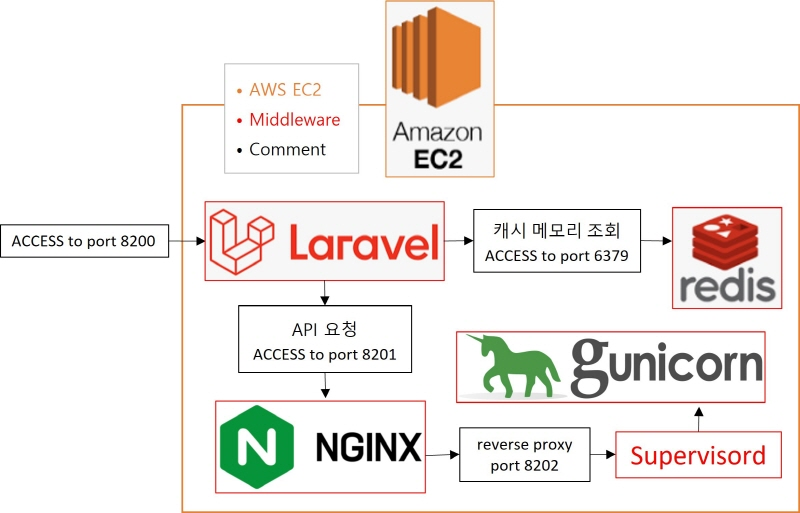
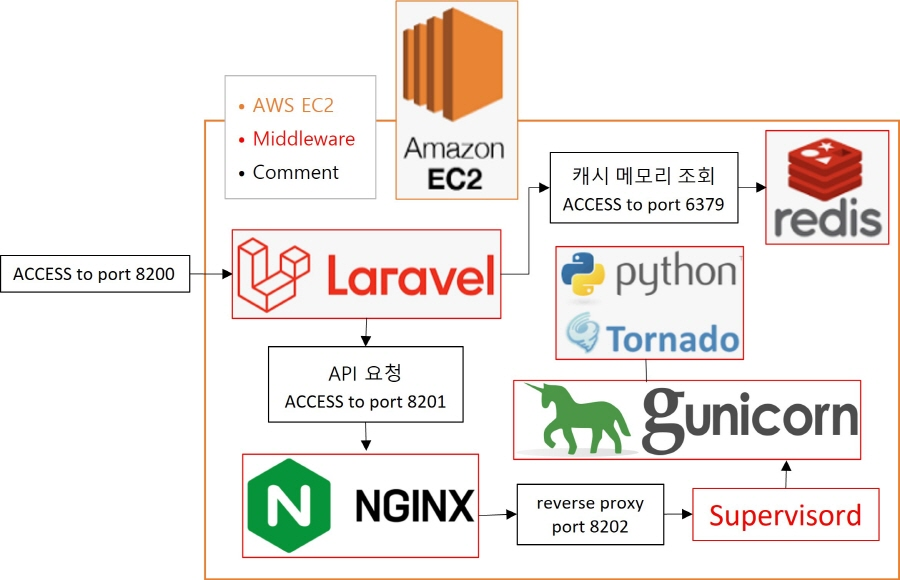
https://hkpark130.p-e.kr:8080/issues/22

diff --git a/src/components/Python.jsx b/src/components/Python.jsx
@@ -4,7 +4,7 @@ import imgPython from '../images/ML.jpg';
 function Python() {
     return(
         <div class="component">
-            <h1>Python</h1>
+            <h1>머신러닝 (Python)</h1>
             「채팅 봇(LSTM), 도쿄 23구 집 값 예측(신경망)」 프로젝트를 기획하여 만들어 보았습니다. <br/>
             독학중이라 accuracy가 낮습니다..
             <div>
@@ -34,8 +34,8 @@ function Python() {
             <h1>서버 구성도</h1>
                 <img
                     src={ imgPython }
-                    width='770'
-                    height='502'
+                    width='900'
+                    height='580'
                 />
 
             <pre>

diff --git a/src/components/Intro.jsx b/src/components/Intro.jsx
@@ -8,9 +8,8 @@ function Intro() {
             <h1>인트로 (React)</h1>
             <div>
                 안녕하세요. <br/>
-                해당 페이지는 인트로 페이지로써 각각의 프로젝트에 접속하기 전 페이지 입니다. <br/>
+                해당 페이지는 인트로 페이지로써 각 프로젝트에 대해서 소개하는 페이지입니다. <br/>
                 
-                <p>시간 날 때마다 혼자서 개발중입니다. <br/>제 이메일: hkpark130@naver.com</p>
             </div>
             <div>
                 <pre>

diff --git a/src/components/Kotlin.jsx b/src/components/Kotlin.jsx
@@ -4,7 +4,7 @@ import img1 from '../images/index.jpg';
 function Kotlin() {
     return(
         <div class="component">
-            <h1>Kotlin</h1>
+            <h1>Todo List (Kotlin)</h1>
             Kotlin을 이용하여 Todo List 앱을 기획하였습니다.<br/>
             데이터는 안드로이드의 Preference를 이용하여 저장하고 있습니다.<br/><br/>
             비행기 내에서 출입국 신고서를 작성할 때 항상 여권번호와 해당 국가 체류주소를 까먹어서 <br/>

diff --git a/src/components/Spring.jsx b/src/components/Spring.jsx
@@ -4,7 +4,7 @@ import imgSpring from '../images/spring-dia.png';
 function Spring() {
     return(
         <div class="component">
-            <h1>Spring</h1>
+            <h1>스프링 블로그 (Spring Boot)</h1>
                 Spring Boot를 이용하여 웹을 만들어보았습니다.<br/>
                 사용했던 기술들을 정리하고 공유하기 위한 블로그를 기획하였습니다.
                 <div>
